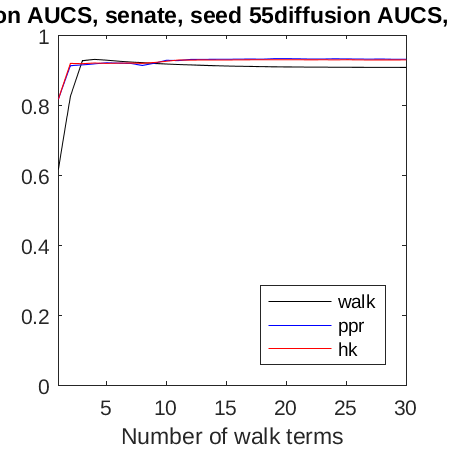
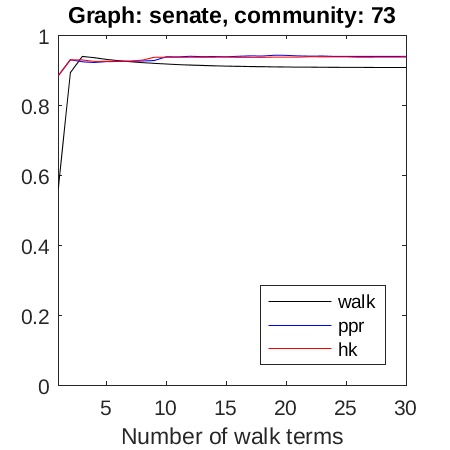
Fixed another bug in the AUC plots, generated new ones.

Changed region(s): [[0.0, 0.0, 0.9956, 0.0622], [0.1244, 0.0933, 0.9022, 0.4044]]

diff --git a/experiments/AUC_of_diffusions/AUC_of_diffusions.m b/experiments/AUC_of_diffusions/AUC_of_diffusions.m
@@ -81,7 +81,7 @@ fprintf('Done computing, now to print.\n');
 	ylim([0,1]);
 	xlim([1,30]);
 
-	title( sprintf( 'diffusion AUCS, %s, seed %d', fname, num2str(which_comm) ) );
+	title( sprintf( 'Graph: %s, community: %d', fname, which_comm ) );
 	xlabel('Number of walk terms');
 	legend('walk',  'ppr','hk', 'location','Southeast');
 
